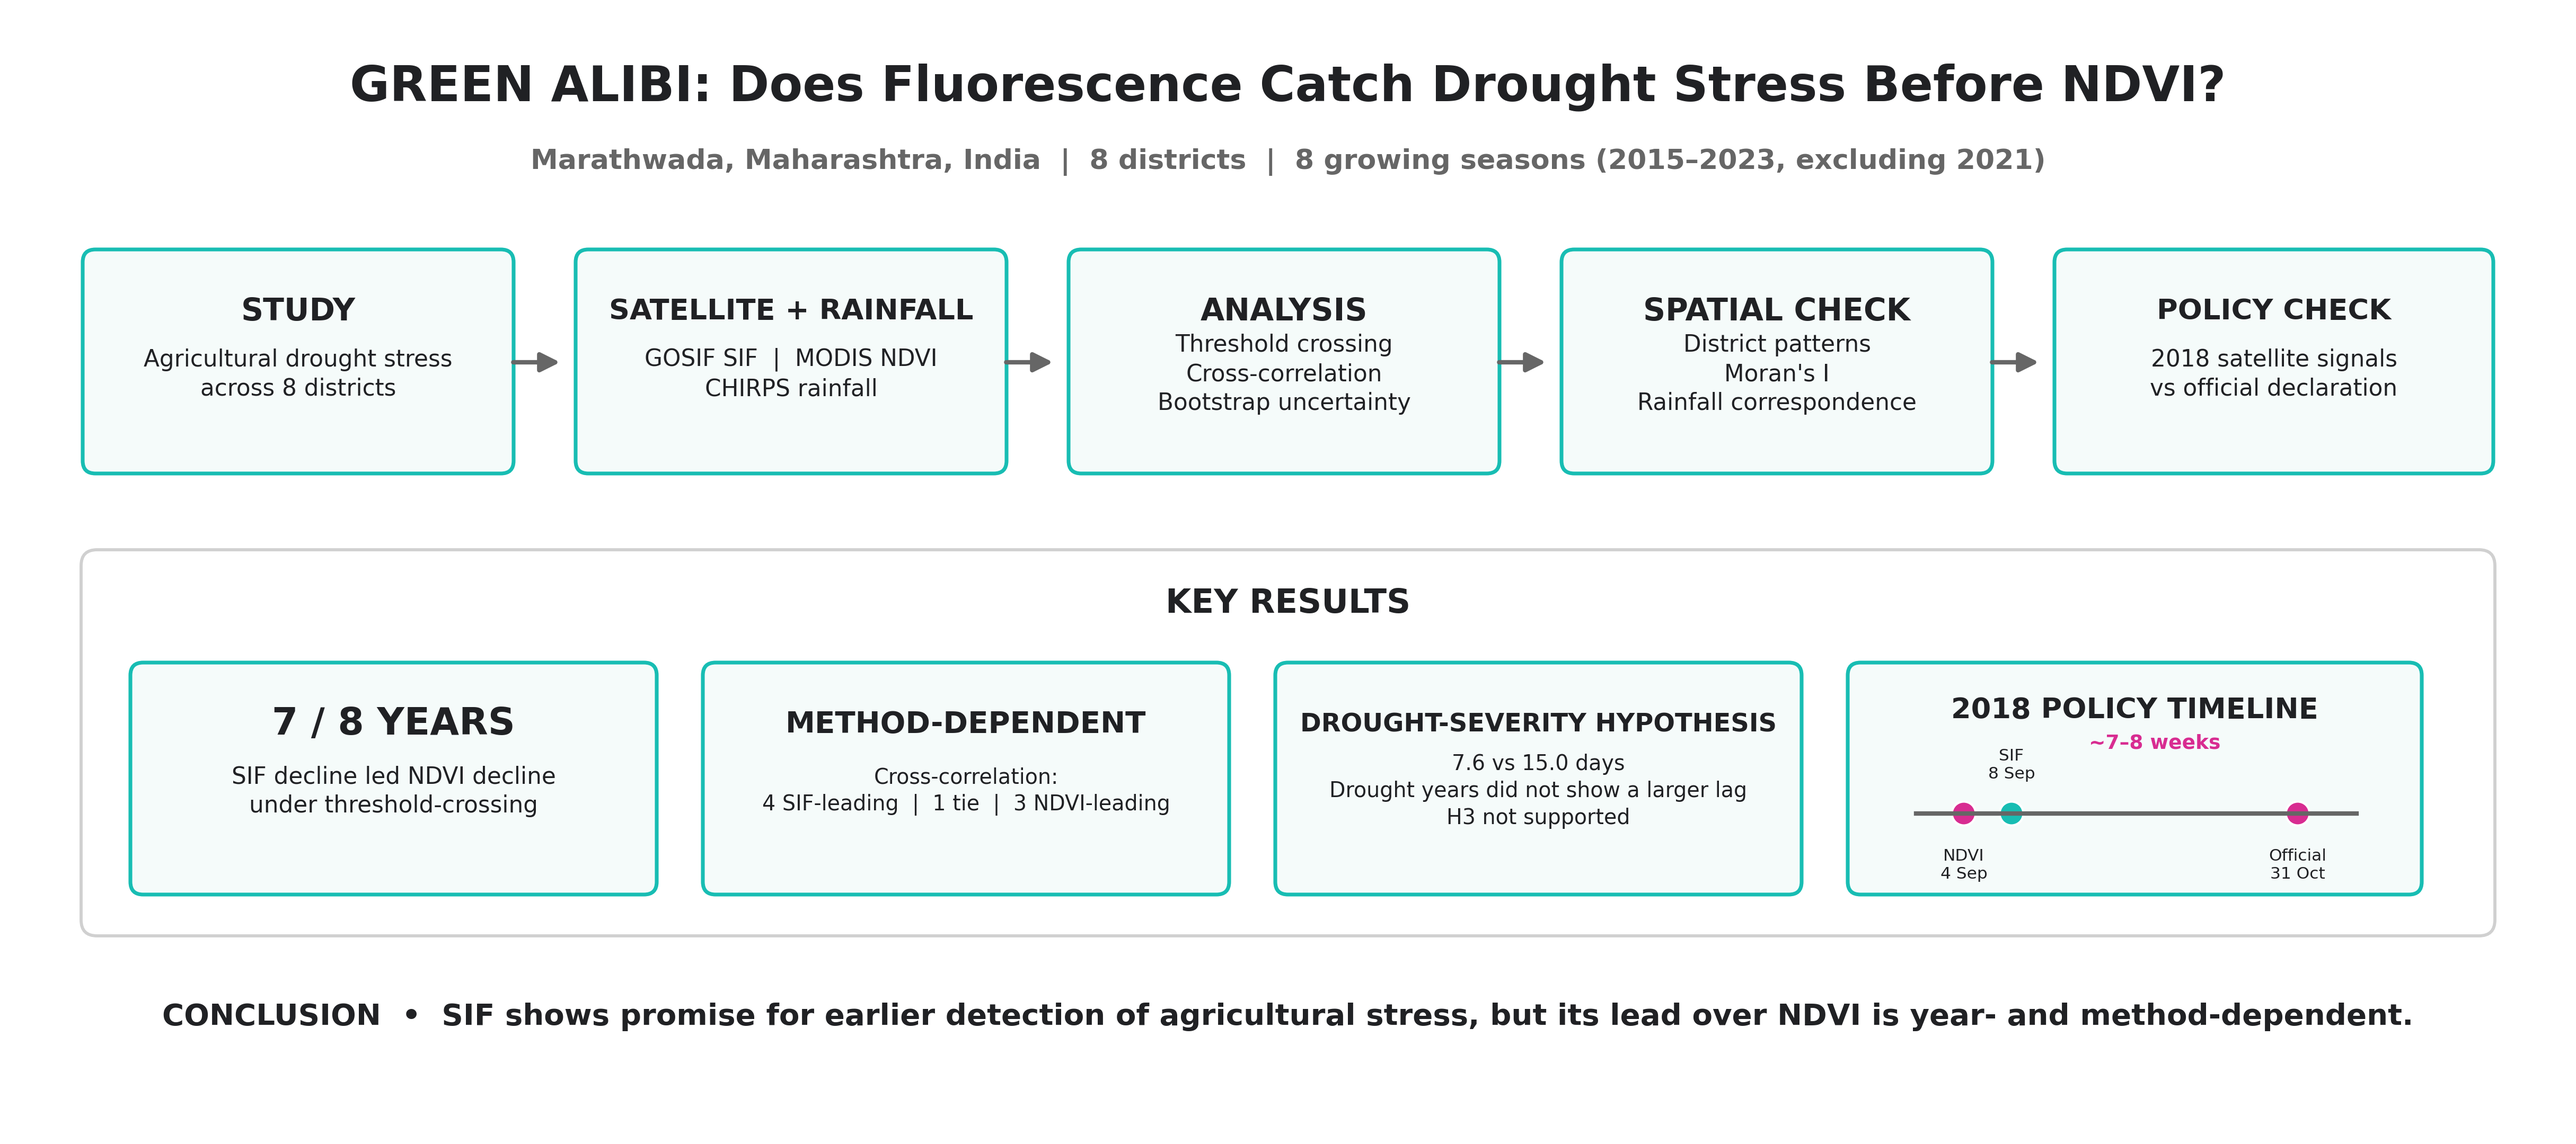
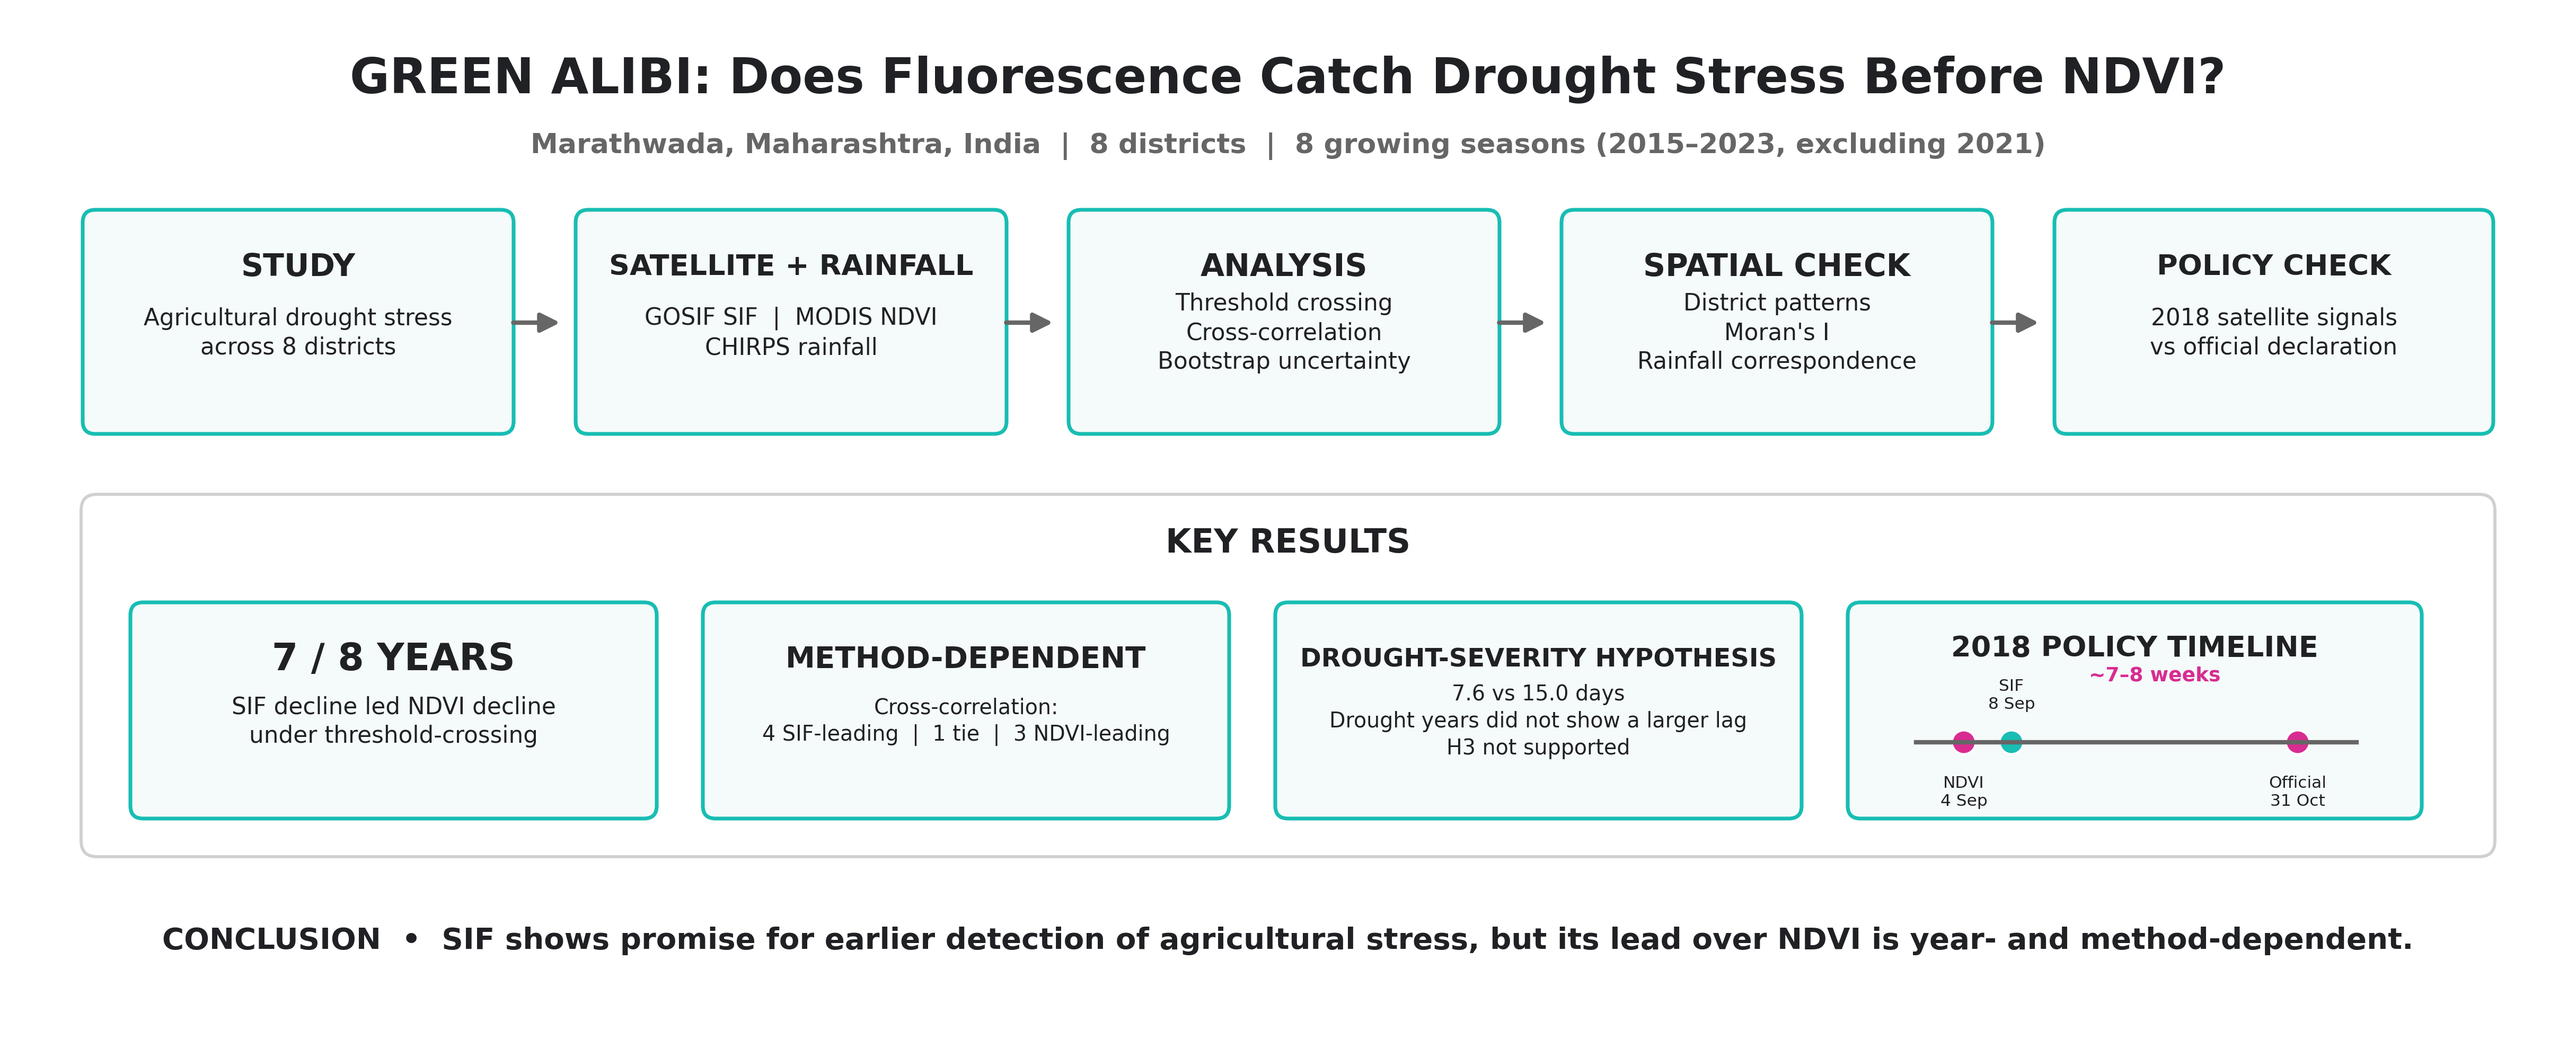
graphic abstract code fix

diff --git a/graphic_abstract.py b/graphic_abstract.py
@@ -7,11 +7,11 @@ from matplotlib.lines import Line2D
 # GREEN ALIBI — GRAPHICAL ABSTRACT
 # ============================================================
 
-fig = plt.figure(figsize=(16, 7), dpi=300)
+fig = plt.figure(figsize=(16, 6.4), dpi=300)
 
 ax = fig.add_axes([0, 0, 1, 1])
 ax.set_xlim(0, 16)
-ax.set_ylim(0, 7)
+ax.set_ylim(0, 6.4)
 ax.axis("off")
 
 
@@ -49,7 +49,7 @@ def draw_box(x, y, width, height, title, body,
 
     ax.text(
         x + width / 2,
-        y + height - 0.36,
+        y + height - 0.33,
         title,
         ha="center",
         va="center",
@@ -60,7 +60,7 @@ def draw_box(x, y, width, height, title, body,
 
     ax.text(
         x + width / 2,
-        y + height / 2 - 0.08,
+        y + height / 2 - 0.07,
         body,
         ha="center",
         va="center",
@@ -90,7 +90,7 @@ def draw_arrow(x1, y1, x2, y2):
 
 ax.text(
     8,
-    6.55,
+    6.00,
     "GREEN ALIBI: Does Fluorescence Catch Drought Stress Before NDVI?",
     ha="center",
     va="center",
@@ -101,7 +101,7 @@ ax.text(
 
 ax.text(
     8,
-    6.08,
+    5.58,
     "Marathwada, Maharashtra, India  |  8 districts  |  "
     "8 growing seasons (2015–2023, excluding 2021)",
     ha="center",
@@ -117,32 +117,32 @@ ax.text(
 # ============================================================
 
 draw_box(
-    0.45, 4.15, 2.65, 1.35,
+    0.45, 3.80, 2.65, 1.35,
     "STUDY",
     "Agricultural drought stress\nacross 8 districts"
 )
 
 draw_box(
-    3.55, 4.15, 2.65, 1.35,
+    3.55, 3.80, 2.65, 1.35,
     "SATELLITE + RAINFALL",
     "GOSIF SIF  |  MODIS NDVI\nCHIRPS rainfall",
     title_size=13
 )
 
 draw_box(
-    6.65, 4.15, 2.65, 1.35,
+    6.65, 3.80, 2.65, 1.35,
     "ANALYSIS",
     "Threshold crossing\nCross-correlation\nBootstrap uncertainty"
 )
 
 draw_box(
-    9.75, 4.15, 2.65, 1.35,
+    9.75, 3.80, 2.65, 1.35,
     "SPATIAL CHECK",
     "District patterns\nMoran's I\nRainfall correspondence"
 )
 
 draw_box(
-    12.85, 4.15, 2.70, 1.35,
+    12.85, 3.80, 2.70, 1.35,
     "POLICY CHECK",
     "2018 satellite signals\nvs official declaration",
     title_size=13
@@ -150,10 +150,10 @@ draw_box(
 
 
 # Arrows
-draw_arrow(3.10, 4.82, 3.45, 4.82)
-draw_arrow(6.20, 4.82, 6.55, 4.82)
-draw_arrow(9.30, 4.82, 9.65, 4.82)
-draw_arrow(12.40, 4.82, 12.75, 4.82)
+draw_arrow(3.10, 4.47, 3.45, 4.47)
+draw_arrow(6.20, 4.47, 6.55, 4.47)
+draw_arrow(9.30, 4.47, 9.65, 4.47)
+draw_arrow(12.40, 4.47, 12.75, 4.47)
 
 
 # ============================================================
@@ -161,9 +161,9 @@ draw_arrow(12.40, 4.82, 12.75, 4.82)
 # ============================================================
 
 panel = FancyBboxPatch(
-    (0.45, 1.25),
+    (0.45, 1.15),
     15.10,
-    2.35,
+    2.20,
     boxstyle="round,pad=0.04,rounding_size=0.10",
     linewidth=1.4,
     edgecolor=BORDER,
@@ -174,7 +174,7 @@ ax.add_patch(panel)
 
 ax.text(
     8,
-    3.30,
+    3.08,
     "KEY RESULTS",
     ha="center",
     va="center",
@@ -190,9 +190,9 @@ ax.text(
 
 draw_box(
     0.75,
-    1.50,
+    1.38,
     3.25,
-    1.40,
+    1.30,
     "7 / 8 YEARS",
     "SIF decline led NDVI decline\n"
     "under threshold-crossing",
@@ -207,9 +207,9 @@ draw_box(
 
 draw_box(
     4.35,
-    1.50,
+    1.38,
     3.25,
-    1.40,
+    1.30,
     "METHOD-DEPENDENT",
     "Cross-correlation:\n"
     "4 SIF-leading  |  1 tie  |  3 NDVI-leading",
@@ -224,9 +224,9 @@ draw_box(
 
 draw_box(
     7.95,
-    1.50,
+    1.38,
     3.25,
-    1.40,
+    1.30,
     "DROUGHT-SEVERITY HYPOTHESIS",
     "7.6 vs 15.0 days\n"
     "Drought years did not show a larger lag\n"
@@ -241,9 +241,9 @@ draw_box(
 # ============================================================
 
 timeline_box = FancyBboxPatch(
-    (11.55, 1.50),
+    (11.55, 1.38),
     3.55,
-    1.40,
+    1.30,
     boxstyle="round,pad=0.03,rounding_size=0.08",
     linewidth=1.7,
     edgecolor=TEAL,
@@ -254,7 +254,7 @@ ax.add_patch(timeline_box)
 
 ax.text(
     13.325,
-    2.63,
+    2.42,
     "2018 POLICY TIMELINE",
     ha="center",
     va="center",
@@ -267,7 +267,7 @@ ax.text(
 ax.add_line(
     Line2D(
         [11.95, 14.72],
-        [1.98, 1.98],
+        [1.83, 1.83],
         linewidth=2,
         color=GREY
     )
@@ -276,7 +276,7 @@ ax.add_line(
 # NDVI marker
 ax.add_patch(
     Circle(
-        (12.25, 1.98),
+        (12.25, 1.83),
         0.075,
         facecolor=PINK,
         edgecolor=WHITE,
@@ -287,7 +287,7 @@ ax.add_patch(
 # SIF marker
 ax.add_patch(
     Circle(
-        (12.55, 1.98),
+        (12.55, 1.83),
         0.075,
         facecolor=TEAL,
         edgecolor=WHITE,
@@ -298,7 +298,7 @@ ax.add_patch(
 # Official declaration marker
 ax.add_patch(
     Circle(
-        (14.35, 1.98),
+        (14.35, 1.83),
         0.075,
         facecolor=PINK,
         edgecolor=WHITE,
@@ -308,7 +308,7 @@ ax.add_patch(
 
 ax.text(
     12.25,
-    1.76,
+    1.62,
     "NDVI\n4 Sep",
     ha="center",
     va="top",
@@ -318,7 +318,7 @@ ax.text(
 
 ax.text(
     12.55,
-    2.18,
+    2.02,
     "SIF\n8 Sep",
     ha="center",
     va="bottom",
@@ -328,7 +328,7 @@ ax.text(
 
 ax.text(
     14.35,
-    1.76,
+    1.62,
     "Official\n31 Oct",
     ha="center",
     va="top",
@@ -338,7 +338,7 @@ ax.text(
 
 ax.text(
     13.45,
-    2.42,
+    2.25,
     "~7–8 weeks",
     ha="center",
     va="center",
@@ -354,7 +354,7 @@ ax.text(
 
 ax.text(
     8,
-    0.70,
+    0.58,
     "CONCLUSION  •  SIF shows promise for earlier detection of "
     "agricultural stress, but its lead over NDVI is year- and "
     "method-dependent.",
